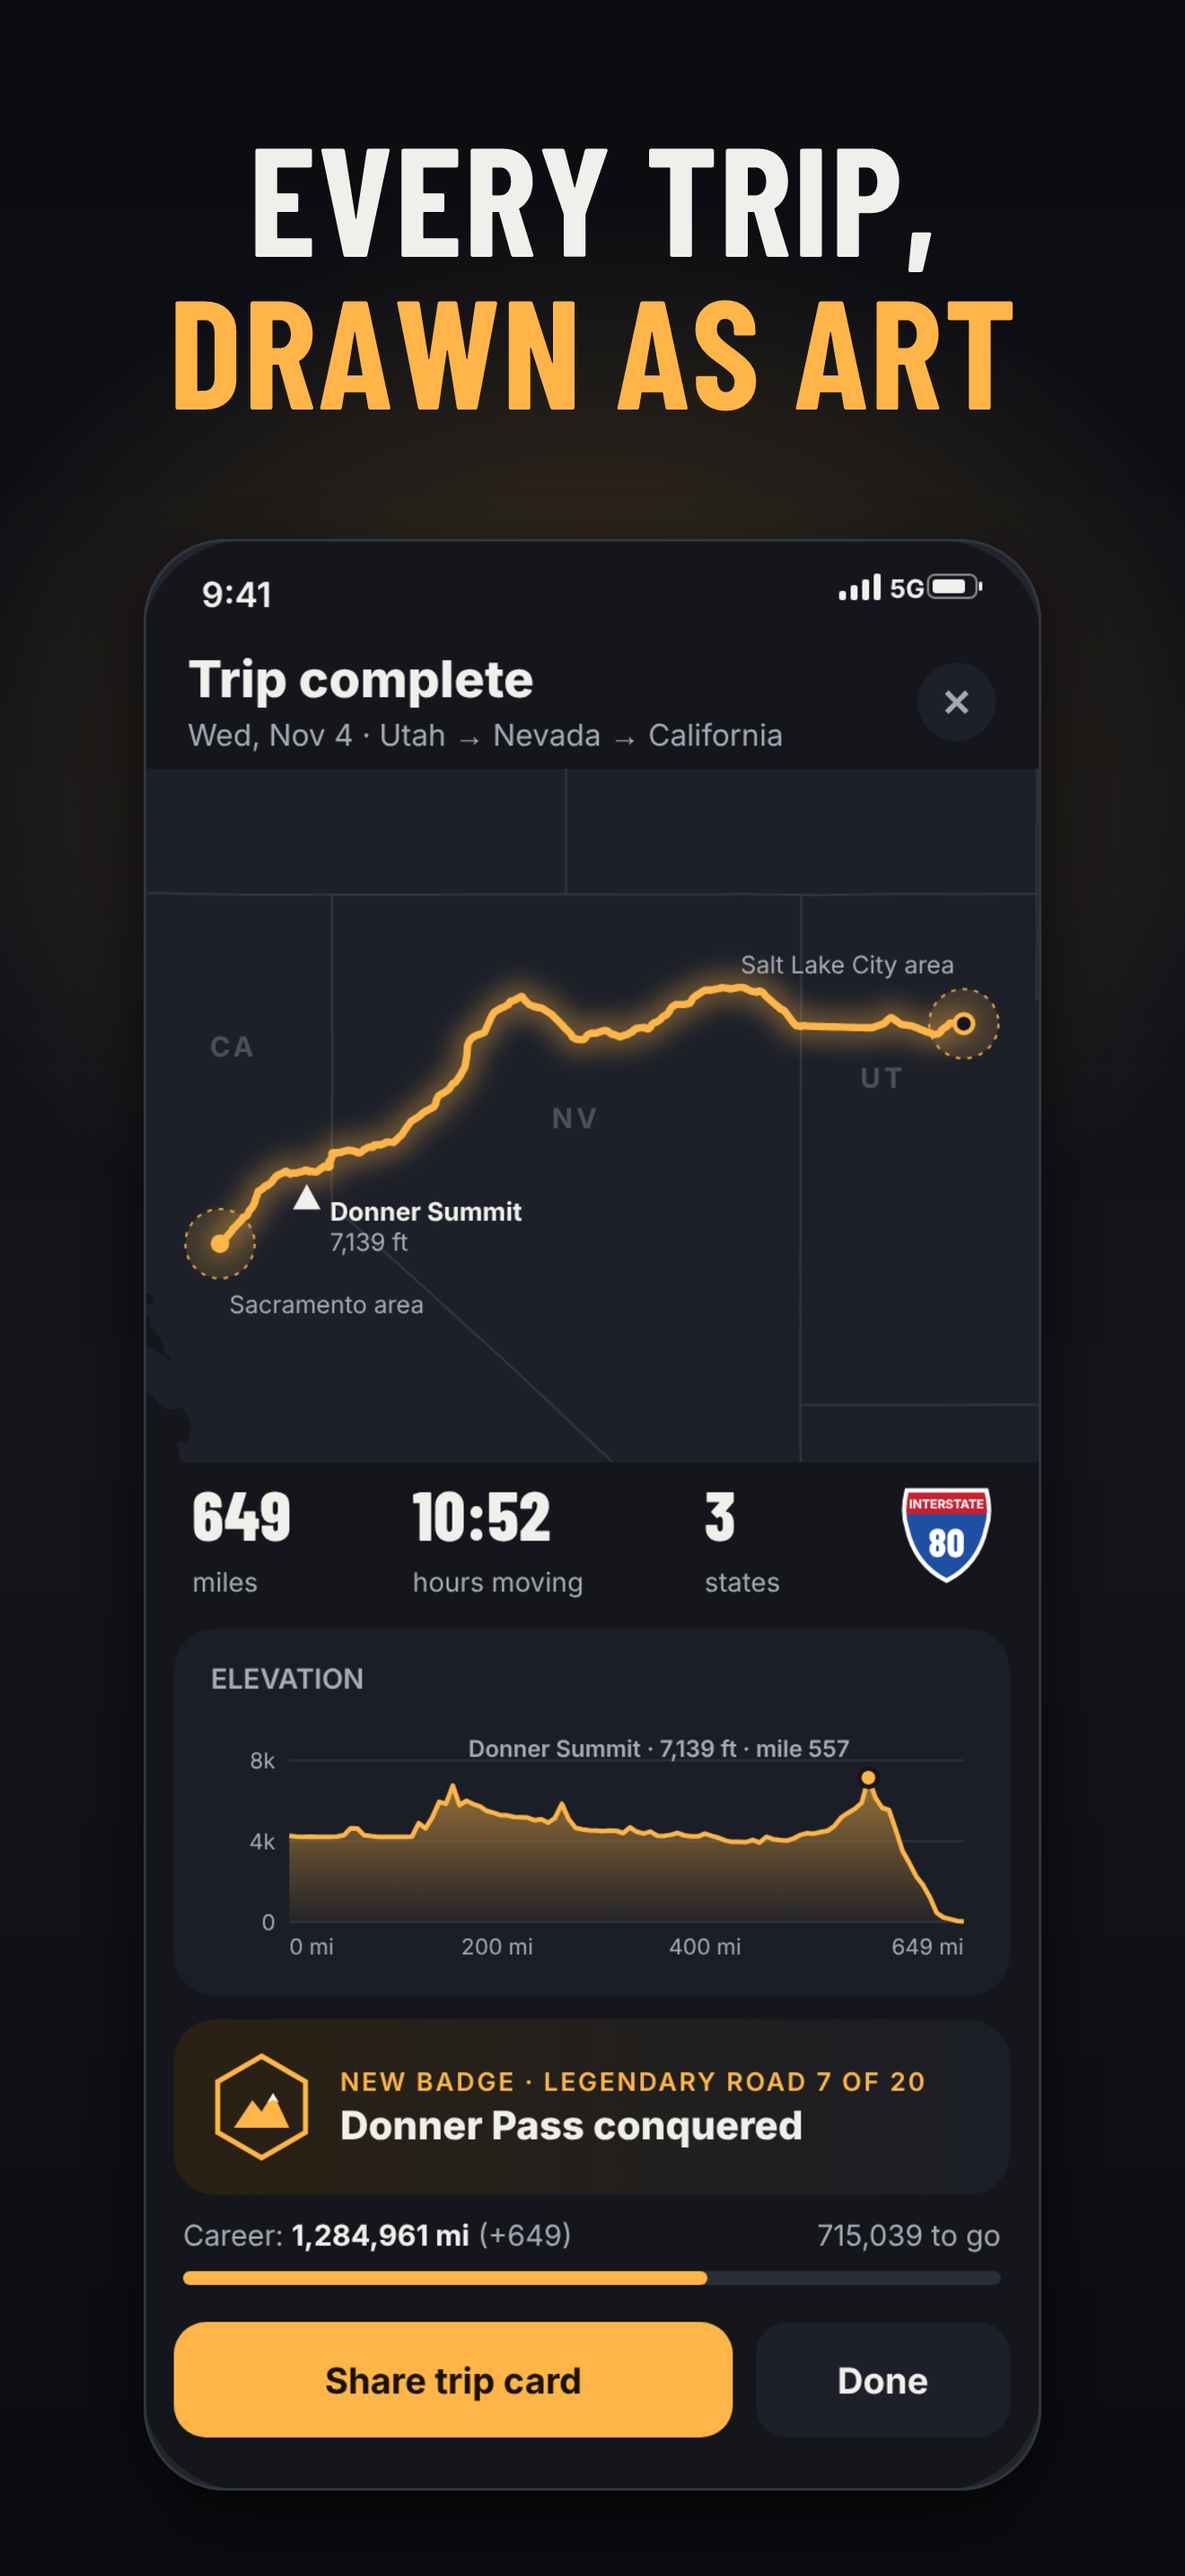
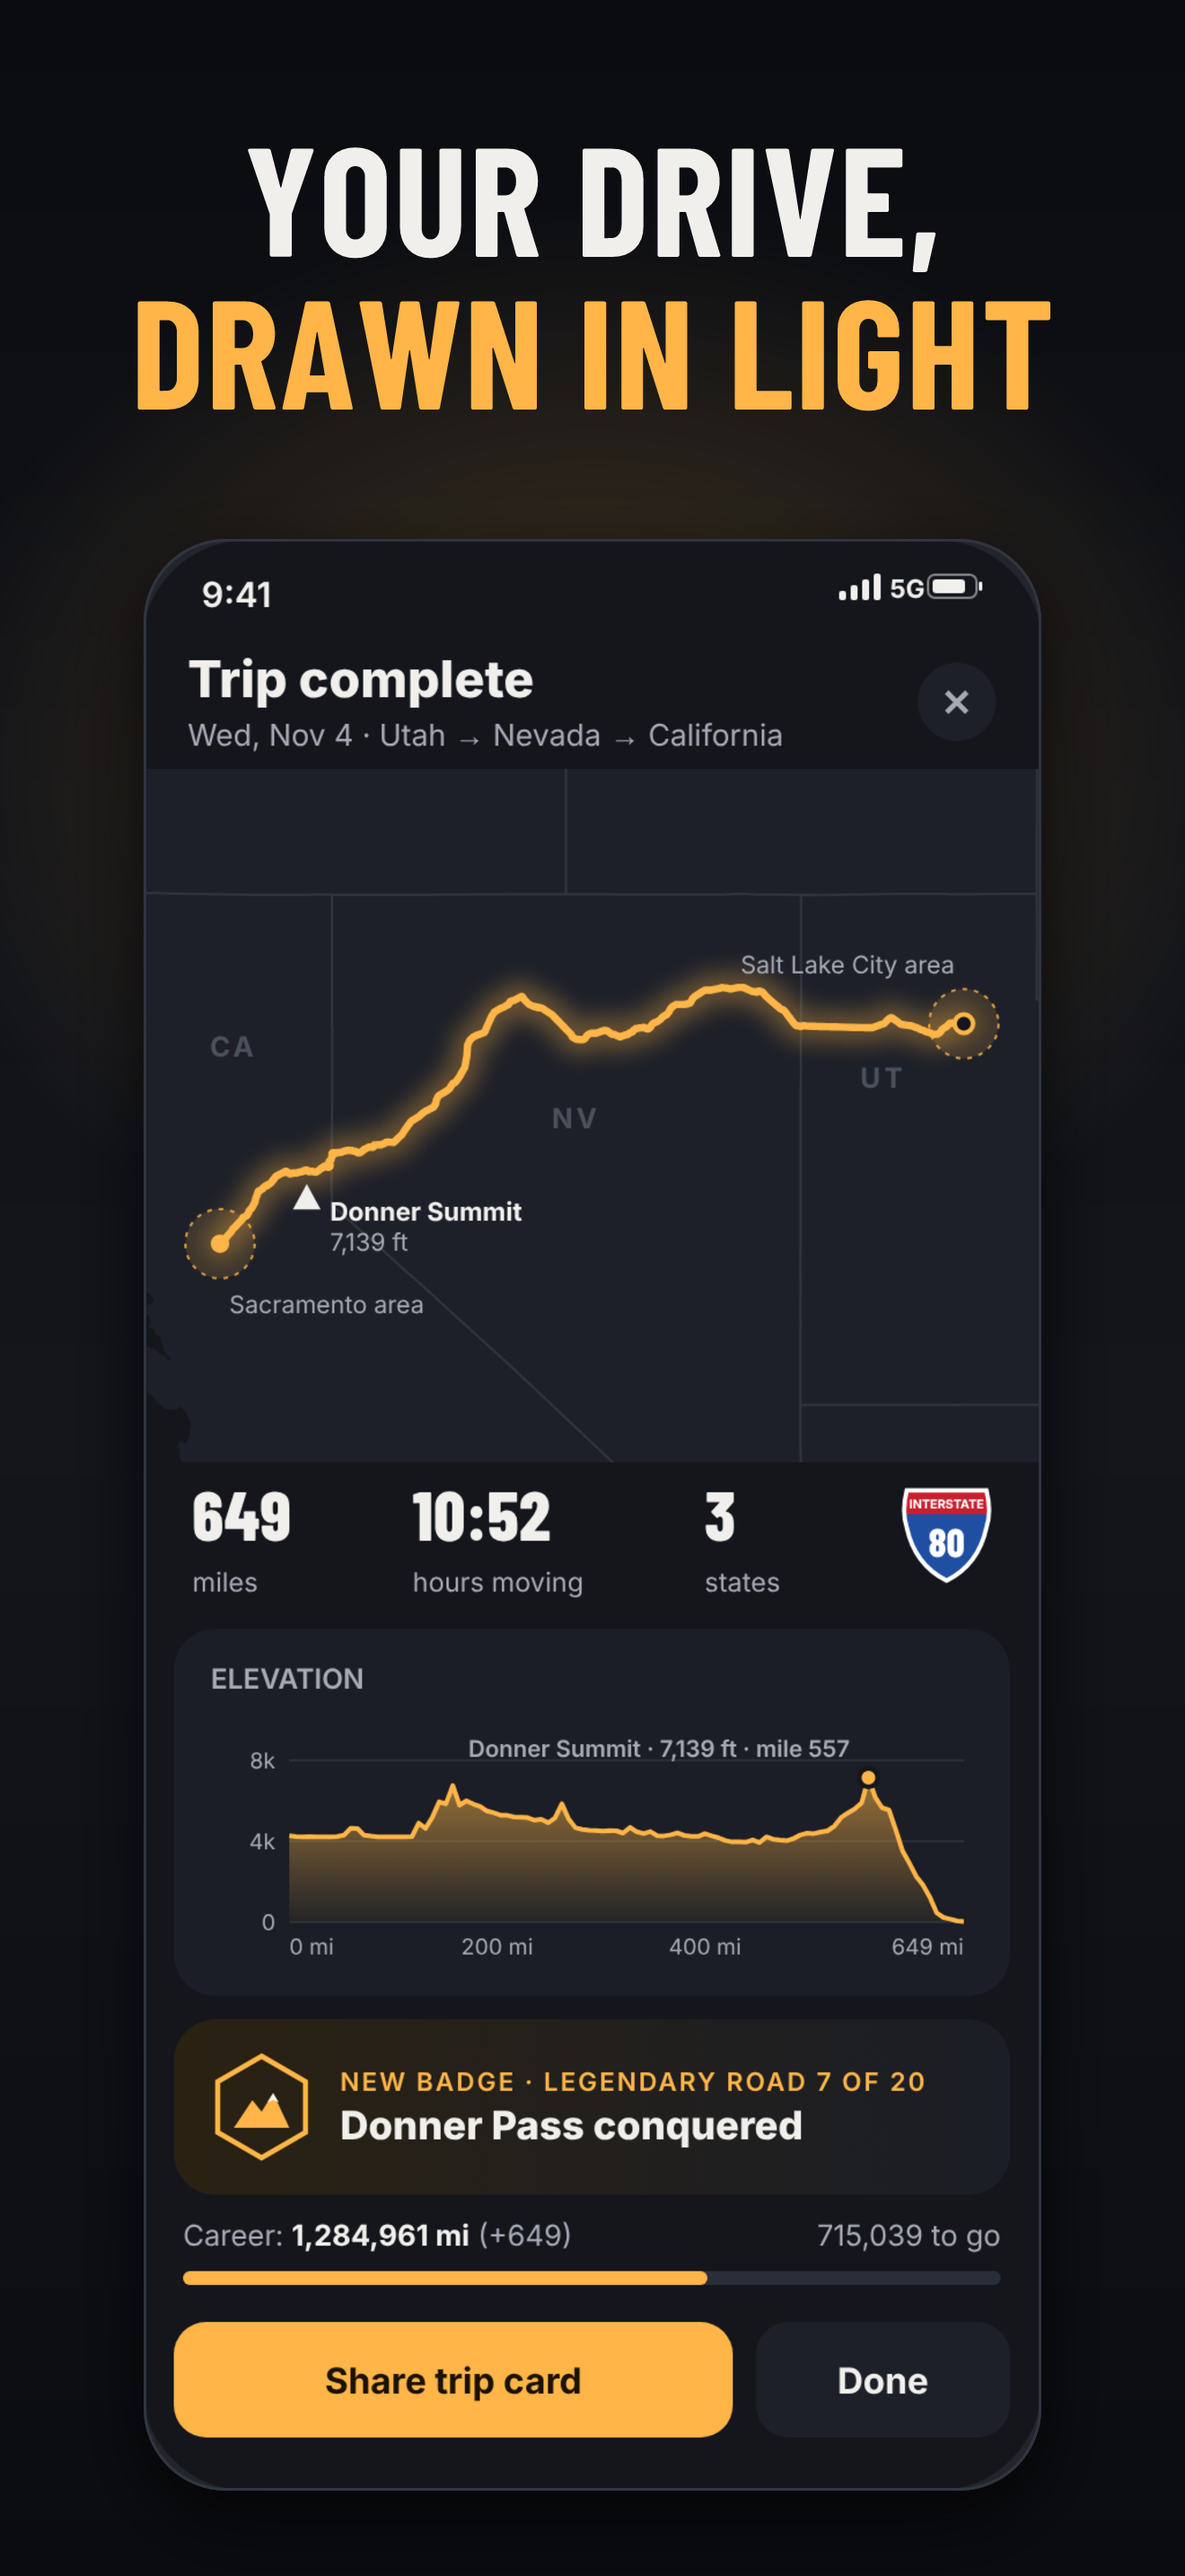
ROA-96: Revise App Store captions and map 05 to the Pro trip video
Board taste review: new captions, no light-theme promotion, 05 shows the
Pro video share state. Stand-in 05 gets a play button and PRO pill.

Changed region(s): [[0.0932, 0.031, 0.9008, 0.1862]]

diff --git a/Design/appstore/README.md b/Design/appstore/README.md
@@ -4,22 +4,24 @@ Five framed screenshots for the 1.0 listing (plan §12.2). Each one has a night 
 
 | # | Caption (line 1 in text colour, line 2 in amber) | Screen |
 |---|---|---|
-| 01 | EVERY TRIP, / DRAWN AS ART | Trip summary (`01-trip-summary`) |
-| 02 | SHARE YOUR ROAD / AS A CARD | Share sheet, Night Highway (`02-night-highway`) |
-| 03 | YOUR PRINT OF / EVERY ROAD | My map (`03-my-map`) |
-| 04 | ONE TAP TO START. / ONE TO END. | Drive (`04-drive`) |
-| 05 | OR GO CLASSIC / WITH ROAD ATLAS | Share sheet, Road Atlas (`05-road-atlas`) |
+| 01 | YOUR DRIVE, / DRAWN IN LIGHT | Trip summary (`01-trip-summary`) |
+| 02 | SEND A POSTCARD / FROM THE ROAD | Share sheet, Night Highway (`02-night-highway`) |
+| 03 | ALL YOUR ROADS, / ONE MAP | My map, lifetime, several distinct roads (`03-my-map`) |
+| 04 | ONE TAP / BEFORE YOU GO | Drive, idle (`04-drive`) |
+| 05 | SHARE A TRIP VIDEO / WITH PRO | Share sheet, Video state in a Pro session (`05-…`, the fifth file by name) |
+
+The inputs are matched by sorted file name, so ROA-95's fifth capture lands in 05 whatever its exact name. No light-theme or Road Atlas promotion: the board wants the night look and the Pro video instead.
 
 - `frame.svg` is the 1320 × 2868 template. `caption-line-1` and `caption-line-2` are text placeholders, and `screenshot-placeholder` is the screen area (x 160, y 600, 1000 × 2173, corner radius 92).
 - `out/01.png` to `out/05.png` are the files to upload. They are exactly 1320 × 2868, 8-bit RGB, with no alpha channel.
-- `previews/` is the same frame with crops of `docs/plan/mockups/` standing in until the real screenshots arrive. Don't upload these.
+- `previews/` is the same frame with crops of `docs/plan/mockups/` standing in (05 adds a play button and PRO pill over the Night Highway card) until the real screenshots arrive. Don't upload these.
 - Contrast: #f0efec on the background is at least 15.7:1, and amber #ffb547 is at least 10.3:1.
 
 ## Regenerate
 
 ```bash
 cd Tools/design && npm ci && node fetch-fonts.mjs
-node appstore.mjs --in /path/to/raw-screenshots   # the 5 PNGs from the ROA-95 `appstore-screenshots` artifact (01-trip-summary … 05-road-atlas)
+node appstore.mjs --in /path/to/raw-screenshots   # the 5 PNGs from the ROA-95 `appstore-screenshots` artifact (01-trip-summary … 05, the Pro video)
 node appstore.mjs                                 # no input: stand-ins into previews/
 ```
 
